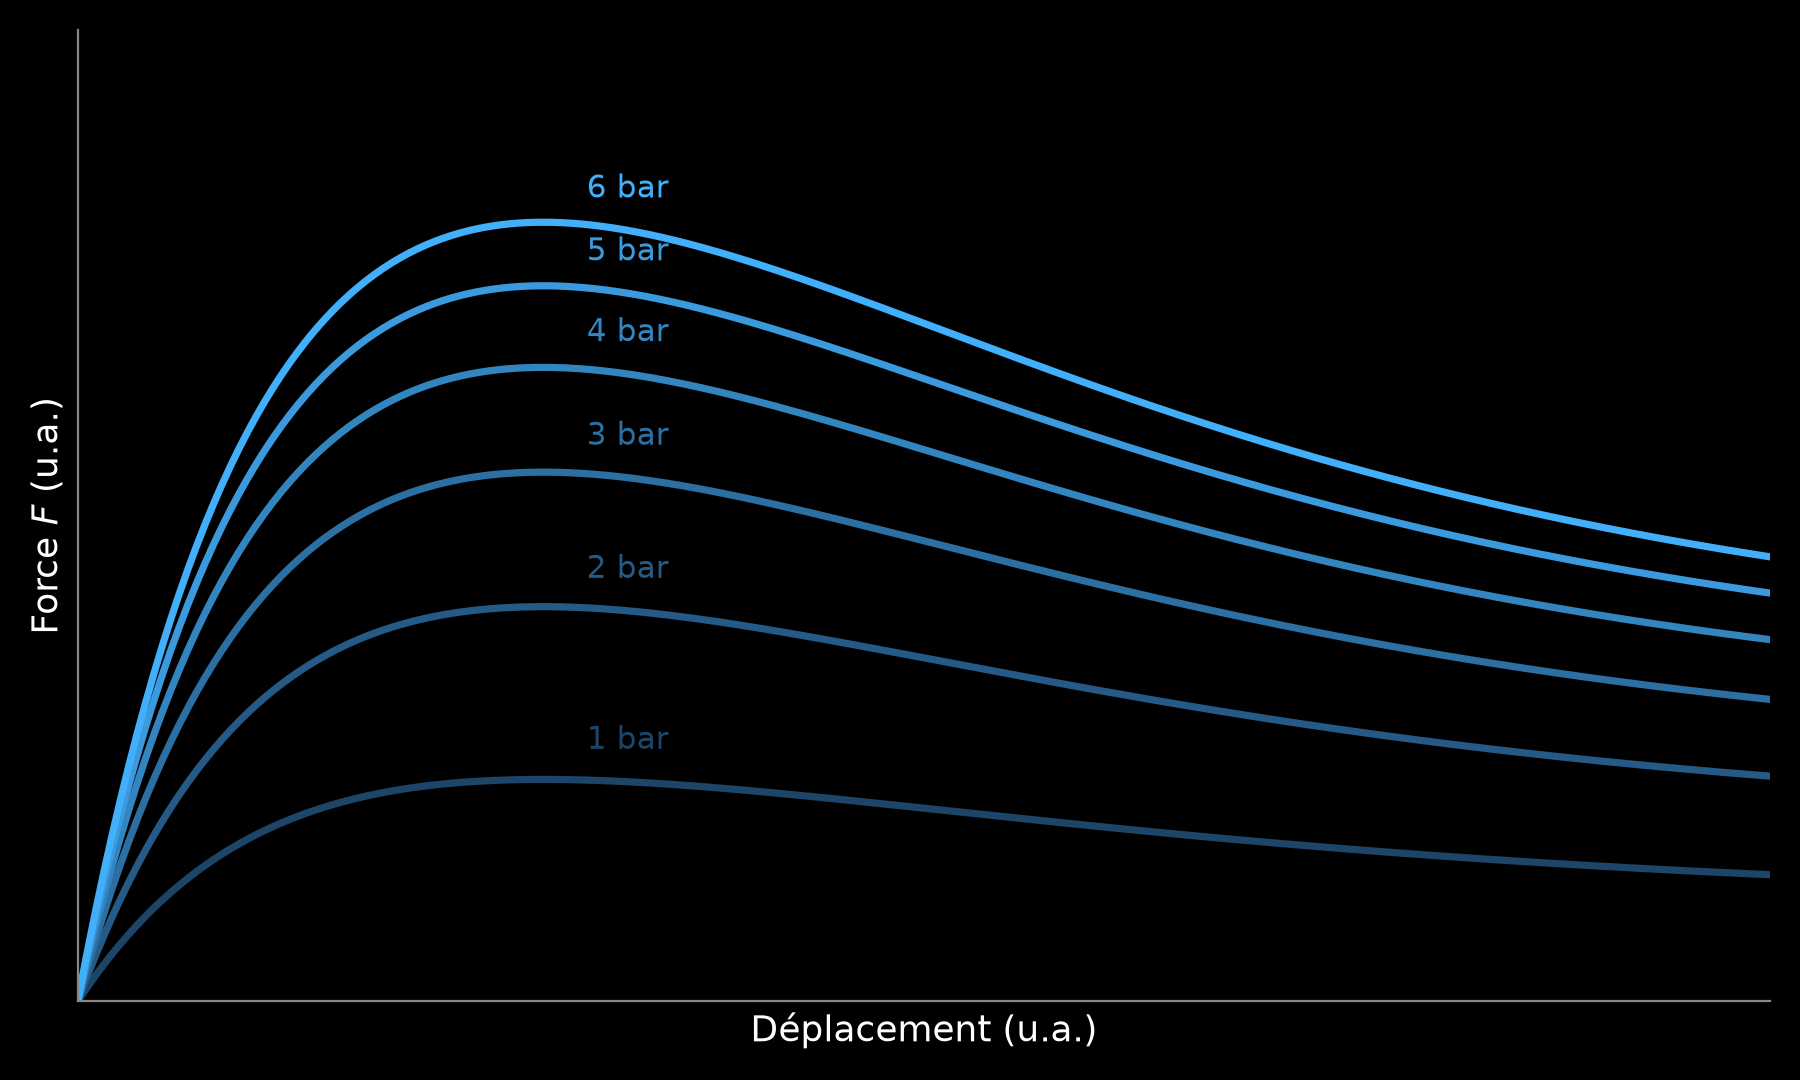
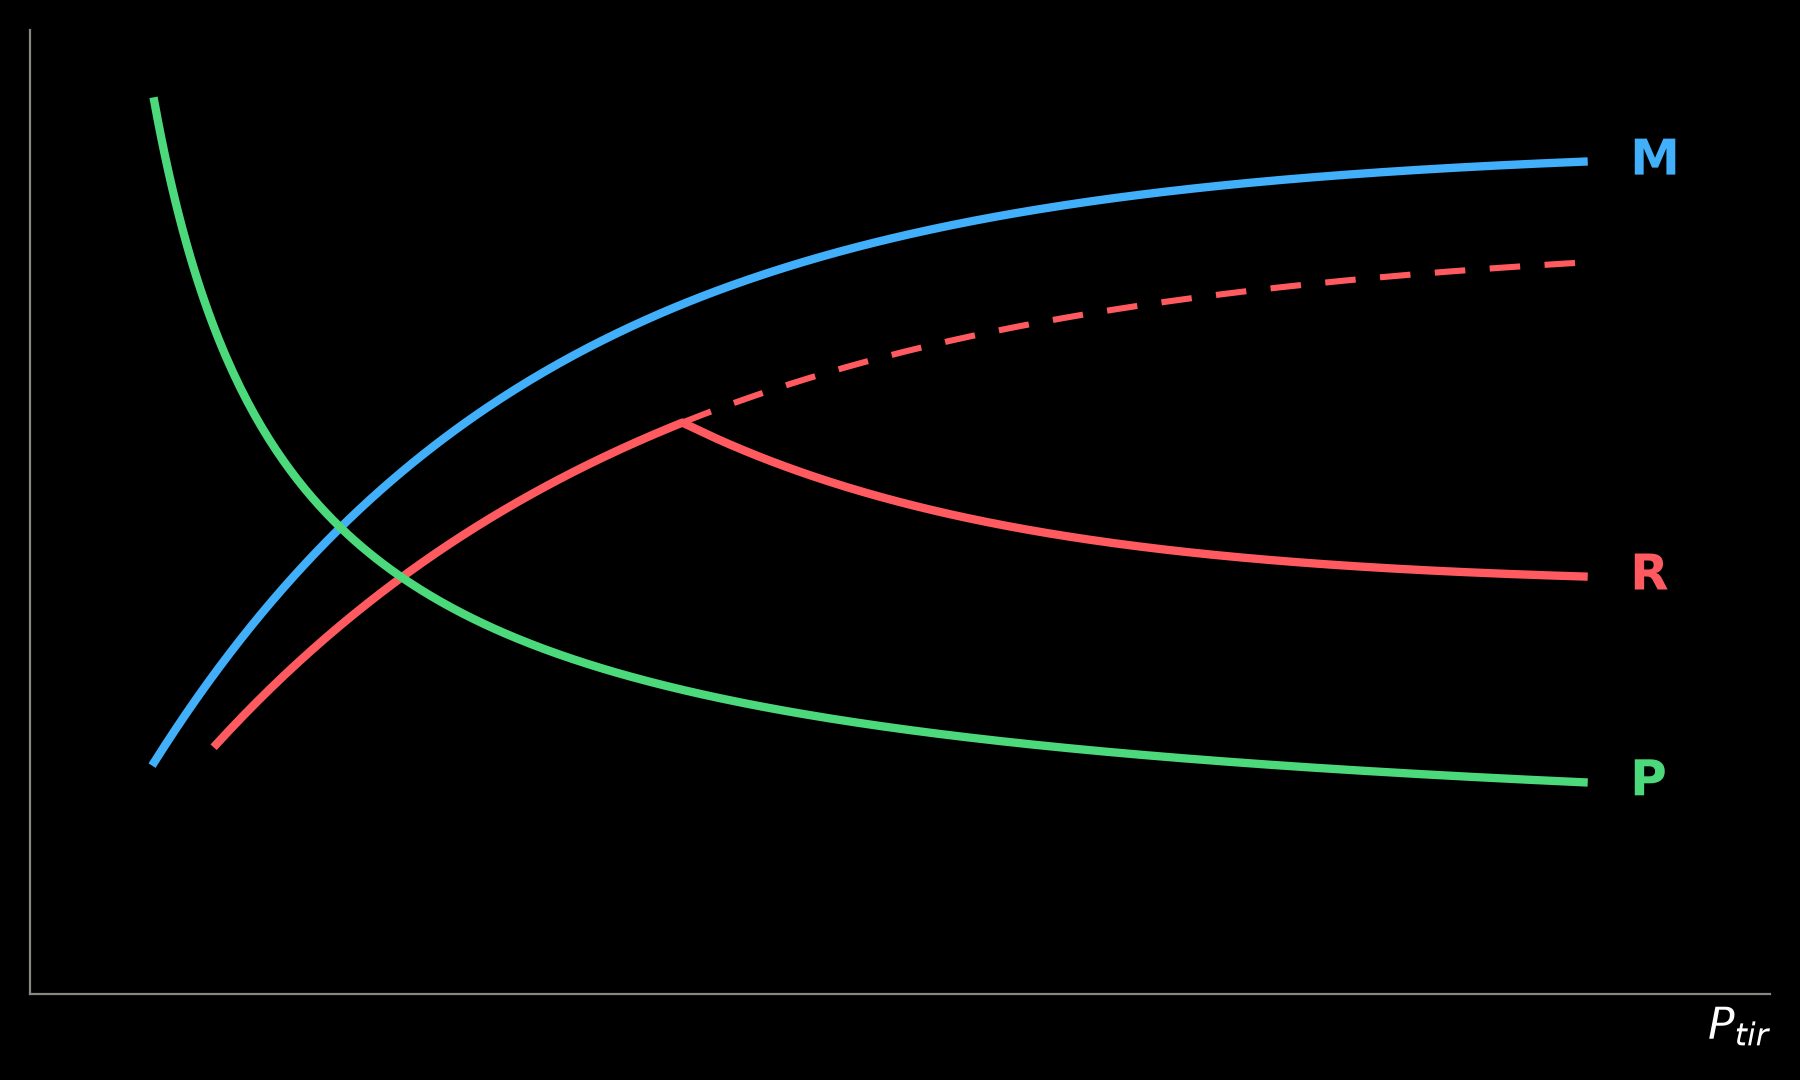
Theoretical curves: M, R, P against P_tir, from the whiteboard sketch

diff --git a/index.html b/index.html
@@ -103,10 +103,10 @@
     <!-- Idealised force-displacement curves for pressures 1-6 bar (scripts/plot_theory.py) -->
     <section class="centered">
       <figure>
-        <img src="figures/courbes_theoriques_dark.png?v=19" alt="Courbes force-déplacement idéalisées pour des pressions de 1 à 6 bar : chaque courbe monte jusqu'à un maximum puis redescend, le maximum augmente avec la pression en se saturant.">
+        <img src="figures/courbes_theoriques_dark.png?v=20" alt="Courbes théoriques en fonction de la pression de tir : la masse M monte vite puis se stabilise ; la résistance R monte, passe par un maximum puis redescend (pointillés : la suite sans chute) ; la perméabilité P chute fortement puis lentement.">
       </figure>
       <aside class="notes">
-        <p class="fact">Courbes qualitatives, pas des mesures : modèle simplifié (montée, pic F_max, adoucissement jusqu'à un palier). F_max augmente avec la pression et sature ; même forme de courbe pour toutes les pressions.</p>
+        <p class="fact">Courbes qualitatives redessinées à partir du schéma au tableau, pas des mesures. M : masse, R : résistance, P : perméabilité, en fonction de la pression de tir P_tir.</p>
         <p>[...]</p>
       </aside>
     </section>
@@ -185,7 +185,7 @@
     <section>
       <section class="centered" id="tableau-1">
         <figure>
-          <img src="figures/masse_dark.png?v=19" alt="Nuage de points de la masse en grammes par échantillon : BFSP 1 à 6 bar de 135 à 143 g, BBox 1 et 2 vers 149 g, BF main 1 % et 2 % vers 152 g.">
+          <img src="figures/masse_dark.png?v=20" alt="Nuage de points de la masse en grammes par échantillon : BFSP 1 à 6 bar de 135 à 143 g, BBox 1 et 2 vers 149 g, BF main 1 % et 2 % vers 152 g.">
         </figure>
         <aside class="notes"><p>[...]</p></aside>
       </section>
@@ -203,7 +203,7 @@
     <section>
       <section class="centered" id="tableau-2">
         <figure>
-          <img src="figures/permeabilite_dark.png?v=19" alt="Nuage de points de la perméabilité par échantillon : BFSP de 310 à 193, BBox 180 et 210, BF main 149,5 et 235,5.">
+          <img src="figures/permeabilite_dark.png?v=20" alt="Nuage de points de la perméabilité par échantillon : BFSP de 310 à 193, BBox 180 et 210, BF main 149,5 et 235,5.">
         </figure>
         <aside class="notes"><p>[...]</p></aside>
       </section>
@@ -222,8 +222,8 @@
       <section class="centered" id="tableau-3">
         <!-- first image fades out when the BFSP-only plot (own y axis) fades in -->
         <div class="r-stack">
-          <img class="fragment fade-out" data-fragment-index="0" src="figures/cisaillement_dark.png?v=19" alt="Nuage de points de la force maximale en newtons par échantillon : BFSP de 673 à 1161, BBox 411 et 431, BF main 1834 et 5226.">
-          <img class="fragment" data-fragment-index="0" src="figures/cisaillement_bfsp_dark.png?v=19" alt="Même nuage de points, limité à BFSP 1 à 6 bar, avec un axe vertical plus resserré.">
+          <img class="fragment fade-out" data-fragment-index="0" src="figures/cisaillement_dark.png?v=20" alt="Nuage de points de la force maximale en newtons par échantillon : BFSP de 673 à 1161, BBox 411 et 431, BF main 1834 et 5226.">
+          <img class="fragment" data-fragment-index="0" src="figures/cisaillement_bfsp_dark.png?v=20" alt="Même nuage de points, limité à BFSP 1 à 6 bar, avec un axe vertical plus resserré.">
         </div>
         <aside class="notes"><p>[...]</p></aside>
       </section>

diff --git a/scripts/plot_theory.py b/scripts/plot_theory.py
@@ -1,8 +1,9 @@
-"""Rough, idealised force-displacement curves of the shear test for several pressures.
+"""Rough, idealised curves of the three measured quantities against the shooting pressure.
 
-Not measured data: a qualitative model. Each curve rises, peaks at F_max(p), then softens
-to a residual plateau. F_max grows with pressure and saturates (denser sand, then
-diminishing returns); the curve shape is the same for every pressure.
+Qualitative sketch (redrawn from the whiteboard drawing), not measured data:
+  M  mass          rises fast, then flattens
+  R  resistance    rises like M, peaks, then falls (dashed: what it would do without the drop)
+  P  permeability  falls steeply, then slowly
 Writes figures/courbes_theoriques_{light,dark}.png.
 """
 from pathlib import Path
@@ -11,47 +12,53 @@ import matplotlib
 matplotlib.use("Agg")
 import matplotlib.pyplot as plt
 import numpy as np
-from matplotlib.colors import to_rgb
 
 root = Path(__file__).resolve().parent.parent
-PRESSURES = [1, 2, 3, 4, 5, 6]
 THEMES = {
-    "dark": dict(bg="#000000", fg="#ffffff", muted="#898781", low="#1d4568"),
-    "light": dict(bg="#ffffff", fg="#111111", muted="#6b6b6b", low="#c3dff5"),
+    "dark": dict(bg="#000000", fg="#ffffff", muted="#898781"),
+    "light": dict(bg="#ffffff", fg="#111111", muted="#6b6b6b"),
 }
-HIGH = "#42affa"
+BLUE, RED, GREEN = "#42affa", "#ff5a5f", "#4cd97b"
+
+X_PEAK = 0.42
 
 
-X_PEAK = 1.0
-RESIDUAL = 0.45
+def mass(x):
+    return 0.95 * (1 - np.exp(-x / 0.25))
 
 
-def f_max(p):
-    return 1 - np.exp(-p / 4)
+def resistance_ideal(x):
+    return 0.85 * (1 - np.exp(-x / 0.3))
 
 
-def curve(x, p):
-    u = x / X_PEAK
-    return f_max(p) * ((1 - RESIDUAL) * u * np.exp(1 - u) + RESIDUAL * (1 - np.exp(-3 * u)))
+def resistance(x):
+    drop = 0.39 * (1 - np.exp(-np.clip(x - X_PEAK, 0, None) / 0.25))
+    return resistance_ideal(x) - drop
 
 
-x = np.linspace(0, 4, 400)
+def permeability(x):
+    return 0.15 + 0.85 * (0.08 / x) ** 0.9
+
+
+x = np.linspace(0.08, 1.0, 400)
+x_r = np.linspace(0.12, 1.0, 400)
+x_d = np.linspace(X_PEAK, 1.0, 200)
+
 for theme, c in THEMES.items():
-    lo, hi = np.array(to_rgb(c["low"])), np.array(to_rgb(HIGH))
     fig, ax = plt.subplots(figsize=(9, 5.4), dpi=200, facecolor=c["bg"])
     ax.set_facecolor(c["bg"])
-    for p in PRESSURES:
-        col = lo + (hi - lo) * (p - 1) / (len(PRESSURES) - 1)
-        y = curve(x, p)
-        ax.plot(x, y, color=col, linewidth=2.6)
-        ax.text(1.3, float(curve(1.3, p)) + 0.025, f"{p} bar", color=col, ha="center", va="bottom",
-                fontsize=11)
-    ax.set_xlim(0, 4)
-    ax.set_ylim(0, 0.95)
+    ax.plot(x, mass(x), color=BLUE, linewidth=3)
+    ax.plot(x_r, resistance(x_r), color=RED, linewidth=3)
+    ax.plot(x_d, resistance_ideal(x_d), color=RED, linewidth=2.2, linestyle=(0, (5, 4)))
+    ax.plot(x, permeability(x), color=GREEN, linewidth=3)
+    for label, color, y in (("M", BLUE, mass(1.0)), ("R", RED, resistance(1.0)),
+                            ("P", GREEN, permeability(1.0))):
+        ax.text(1.03, y, label, color=color, fontsize=18, fontweight="bold", va="center")
+    ax.set_xlim(0, 1.12)
+    ax.set_ylim(0, 1.08)
     ax.set_xticks([])
     ax.set_yticks([])
-    ax.set_xlabel("Déplacement (u.a.)", color=c["fg"], fontsize=13)
-    ax.set_ylabel(r"Force $F$ (u.a.)", color=c["fg"], fontsize=13)
+    ax.set_xlabel(r"$P_{tir}$", color=c["fg"], fontsize=16, loc="right")
     for side in ("top", "right"):
         ax.spines[side].set_visible(False)
     for side in ("left", "bottom"):
